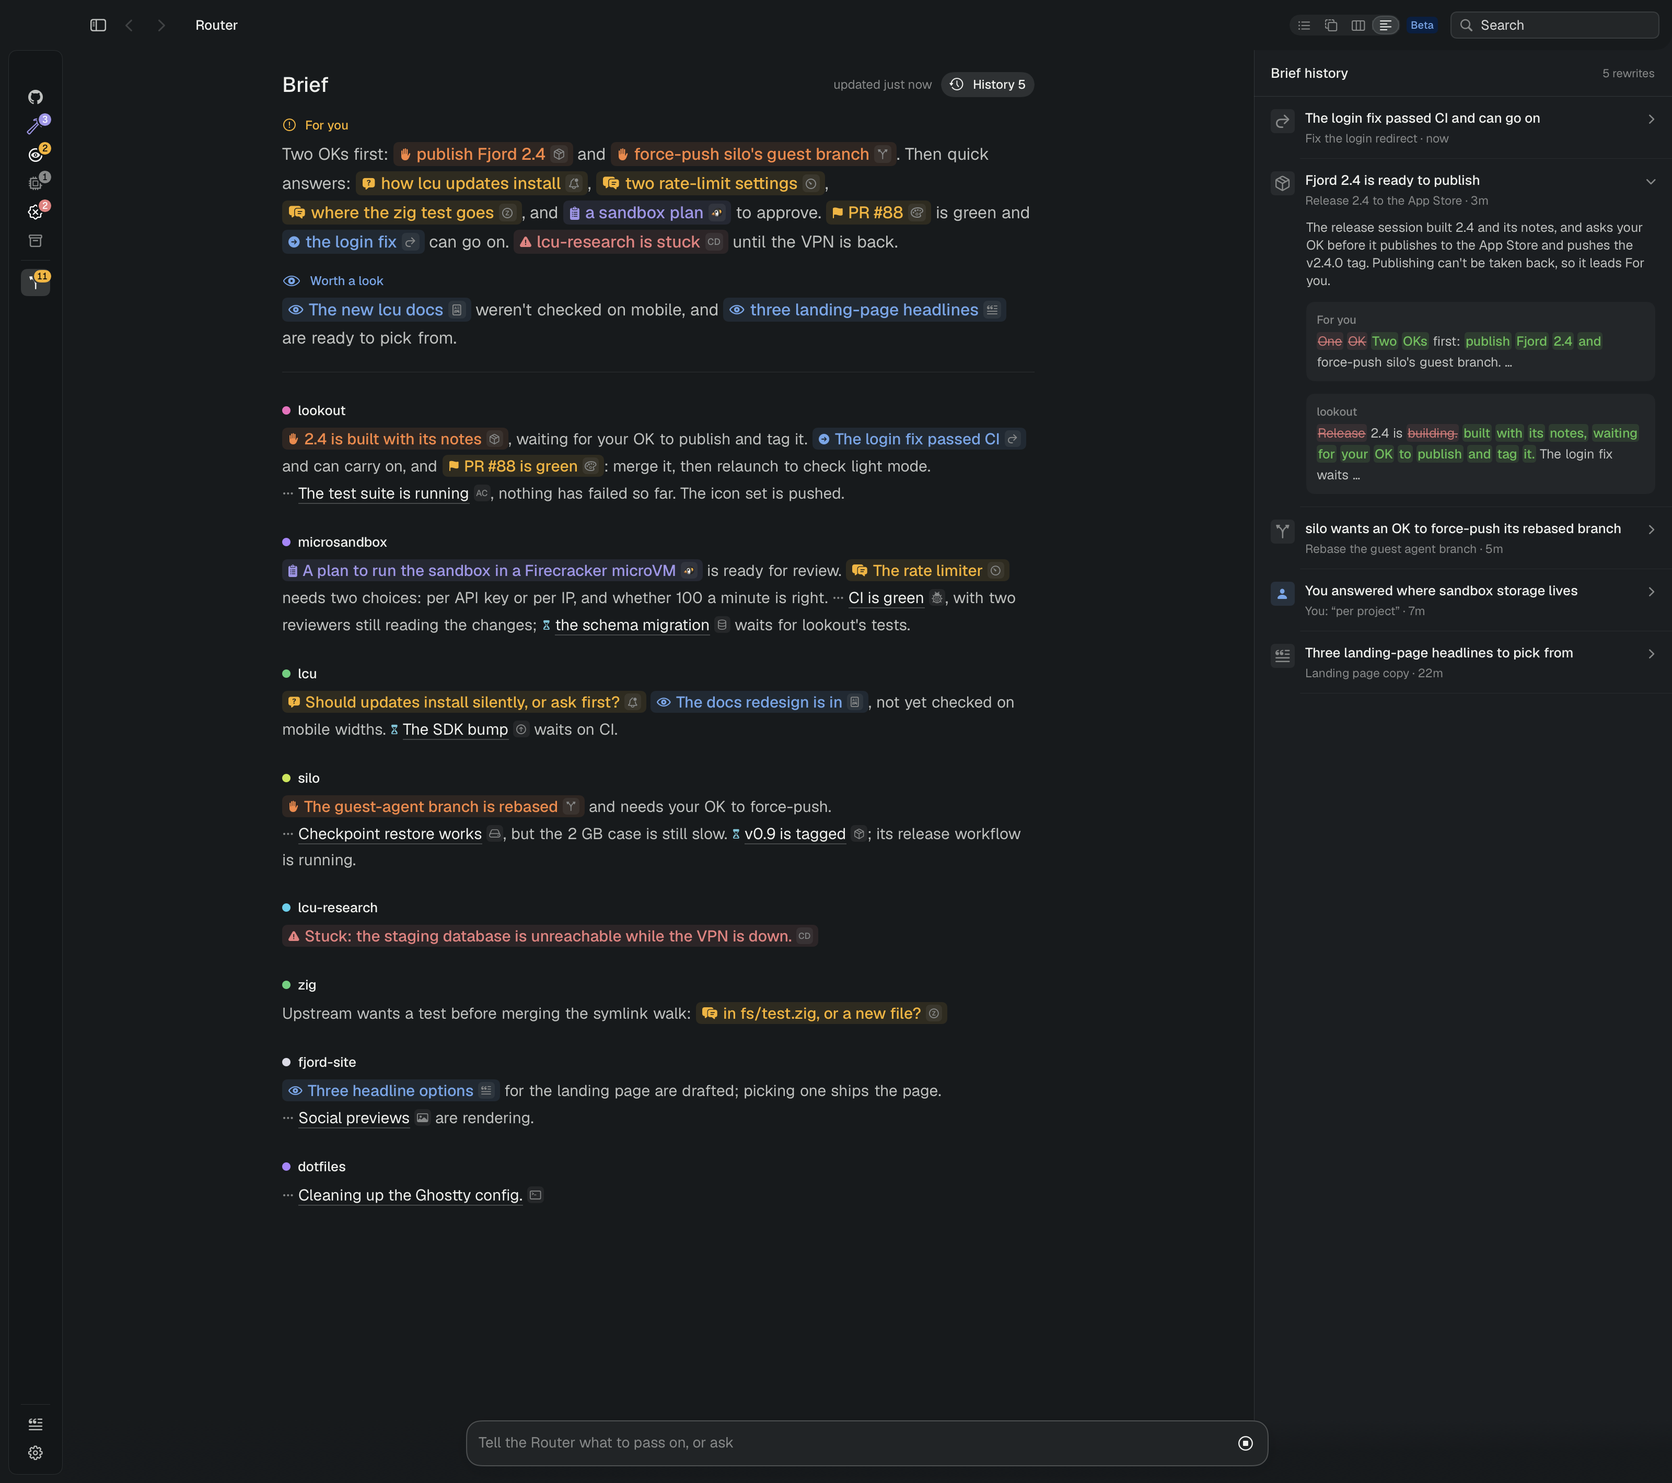
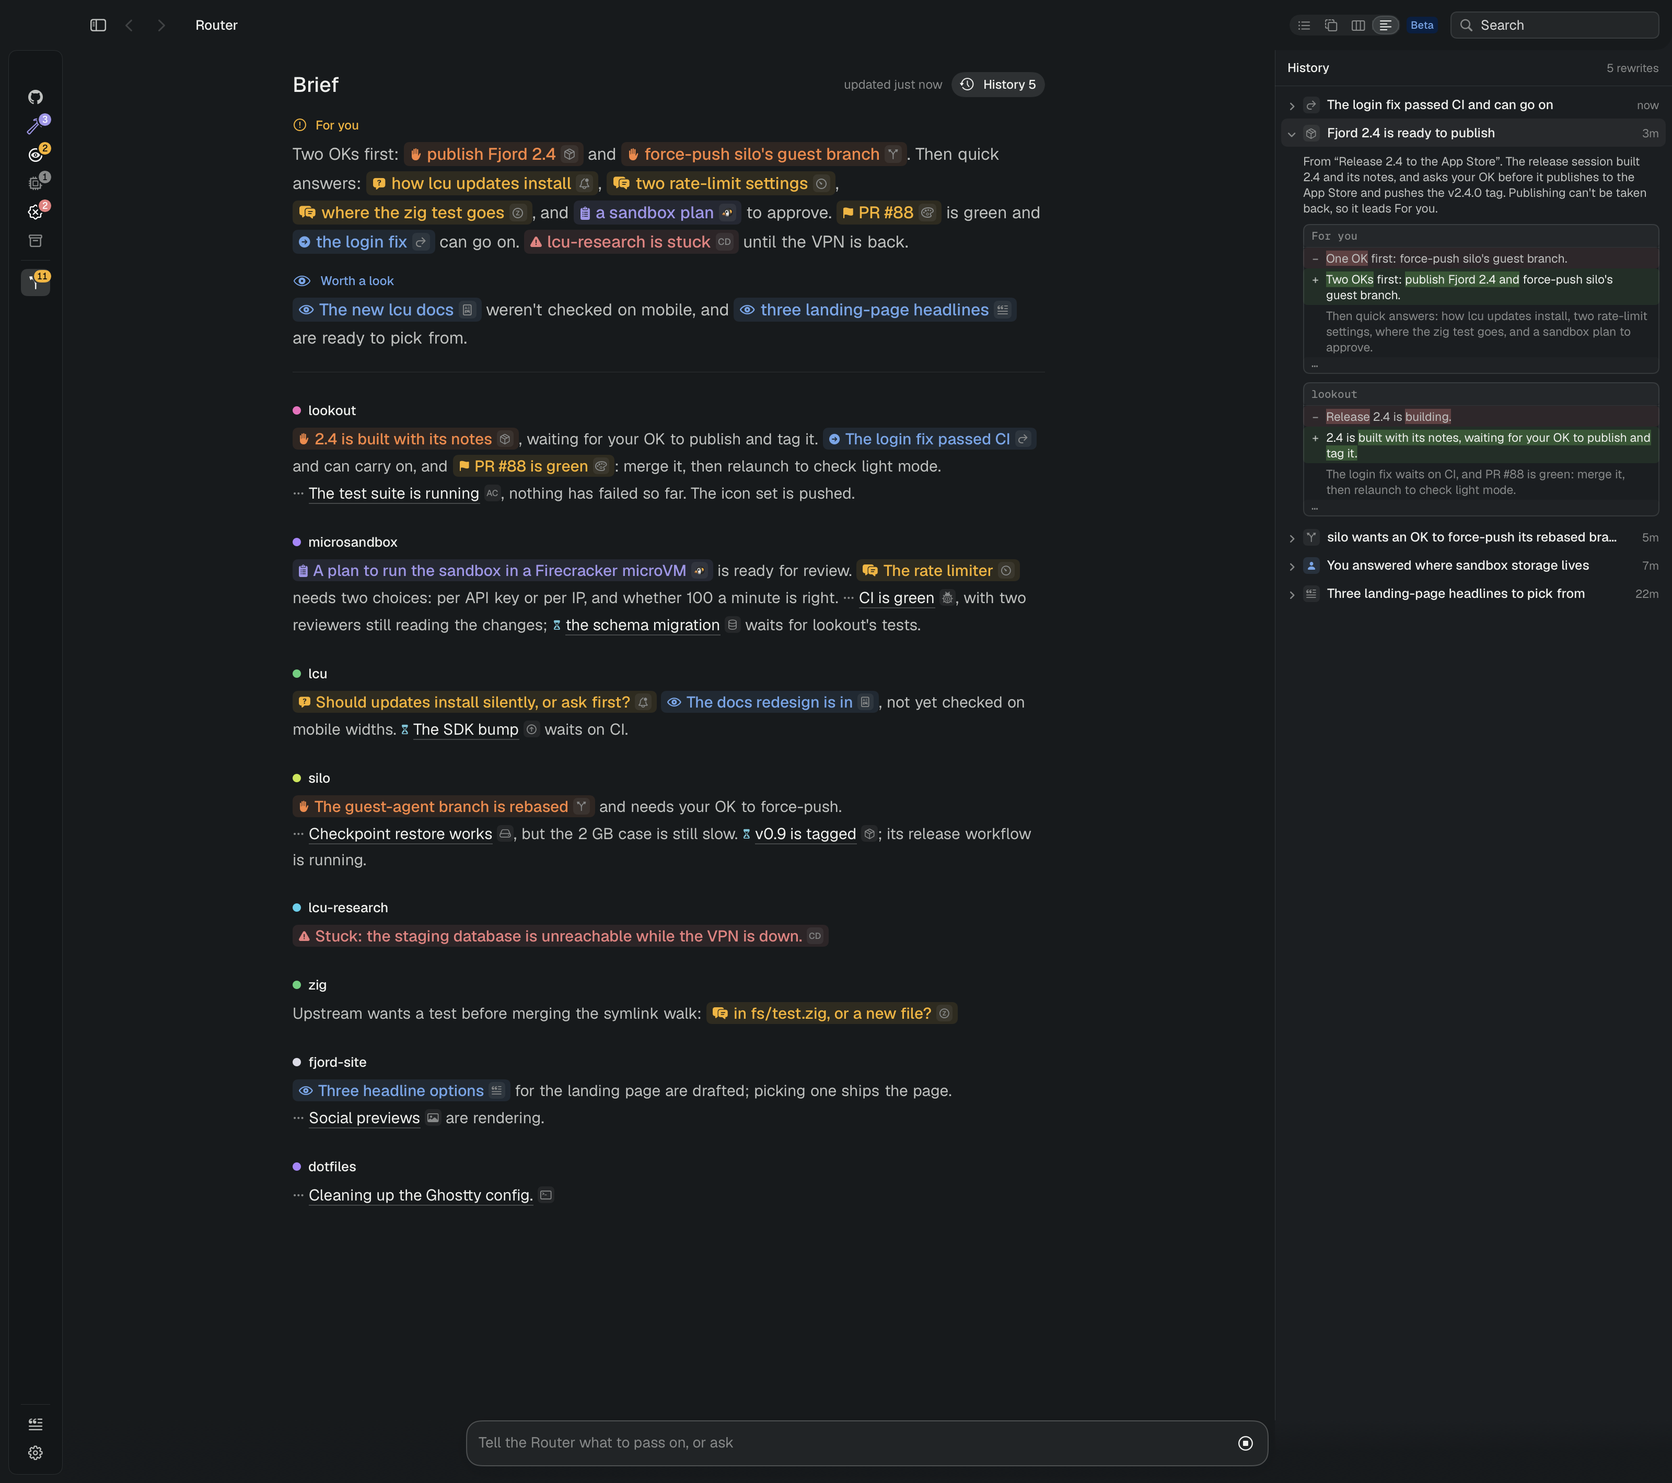
feat: Brief history as a compact list, each rewrite a unified sentence diff with the changed words marked

diff --git a/Sources/Fjord/RouterDigest.swift b/Sources/Fjord/RouterDigest.swift
@@ -53,14 +53,24 @@ struct RouterDigest: Equatable {
     }
 }
 
-/// A word-by-word diff of two paragraphs' text, tags read out: the words kept, taken out and put in, in reading order.
+/// A unified diff of two paragraphs, tags read out, as a code review shows one: the text cut into sentences (a paragraph's
+/// lines), sentences taken out and put in as − and + lines, the words that changed inside a sentence rewritten marked on
+/// it, and the sentences kept shown only next to a change, the rest folded to ⋯.
 enum DigestDiff {
-    enum Word: Equatable {
-        case same(String), removed(String), added(String)
+    enum Line: Equatable {
+        /// A sentence kept, shown as context.
+        case same(String)
+        /// Kept sentences folded away.
+        case fold
+        /// A sentence taken out, the ranges of its words that went (none: all of it).
+        case removed(String, changed: [Range<String.Index>])
+        /// A sentence put in, the ranges of its words that came.
+        case added(String, changed: [Range<String.Index>])
     }
 
-    static func words(_ before: String, _ after: String) -> [Word] {
-        let a = plain(before), b = plain(after)
+    static func lines(_ before: String, _ after: String) -> [Line] {
+        let a = sentences(before), b = sentences(after)
+        var ops: [(kind: Int, text: String)] = []  // 0 same, -1 removed, 1 added
         let diff = b.difference(from: a)
         var removed = Set<Int>(), inserted = Set<Int>()
         for change in diff {
@@ -69,56 +79,122 @@ enum DigestDiff {
             case .insert(let offset, _, _): inserted.insert(offset)
             }
         }
-        // Walk both: what left a, where it stood, then what came into b.
-        var out: [Word] = []
         var i = 0, j = 0
         while i < a.count || j < b.count {
-            if i < a.count, removed.contains(i) { out.append(.removed(a[i])); i += 1; continue }
-            if j < b.count, inserted.contains(j) { out.append(.added(b[j])); j += 1; continue }
-            if i < a.count, j < b.count { out.append(.same(b[j])); i += 1; j += 1; continue }
-            if i < a.count { out.append(.removed(a[i])); i += 1 } else { out.append(.added(b[j])); j += 1 }
+            if i < a.count, removed.contains(i) { ops.append((-1, a[i])); i += 1; continue }
+            if j < b.count, inserted.contains(j) { ops.append((1, b[j])); j += 1; continue }
+            if i < a.count, j < b.count { ops.append((0, b[j])); i += 1; j += 1; continue }
+            if i < a.count { ops.append((-1, a[i])); i += 1 } else { ops.append((1, b[j])); j += 1 }
         }
-        return trimmed(out)
+        // A run of − lines then + lines is a rewrite: pair them, line by line, to mark the words that changed.
+        var out: [Line] = []
+        var k = 0
+        while k < ops.count {
+            if ops[k].kind == 0 { out.append(.same(ops[k].text)); k += 1; continue }
+            var minus: [String] = [], plus: [String] = []
+            while k < ops.count, ops[k].kind == -1 { minus.append(ops[k].text); k += 1 }
+            while k < ops.count, ops[k].kind == 1 { plus.append(ops[k].text); k += 1 }
+            var plusMarks: [[Range<String.Index>]] = plus.map { _ in [] }
+            for (n, old) in minus.enumerated() {
+                if n < plus.count {
+                    let (gone, came) = changedWords(old, plus[n])
+                    out.append(.removed(old, changed: gone))
+                    plusMarks[n] = came
+                } else {
+                    out.append(.removed(old, changed: []))
+                }
+            }
+            for (n, new) in plus.enumerated() { out.append(.added(new, changed: plusMarks[n])) }
+        }
+        return folded(out)
     }
 
-    /// The words kept, cut to a few on each side of a change, as a diff's context: a long run between two changes keeps
-    /// its ends with "…" between, one before the first change or after the last keeps only the end next to it.
-    static func trimmed(_ words: [Word], context: Int = 4) -> [Word] {
-        var out: [Word] = []
-        var run: [Word] = []
-        func flush(atEnd: Bool) {
-            let first = out.isEmpty
-            if run.count <= context * 2 + 1 || (first && atEnd) {
-                out += run
-            } else if first {
-                out += [.same("…")] + run.suffix(context)
-            } else if atEnd {
-                out += run.prefix(context) + [.same("…")]
-            } else {
-                out += run.prefix(context) + [.same("…")] + run.suffix(context)
+    /// Kept sentences more than one away from a change folded to ⋯.
+    static func folded(_ lines: [Line]) -> [Line] {
+        let near: (Int) -> Bool = { index in
+            [index - 1, index + 1].contains { n in
+                guard lines.indices.contains(n) else { return false }
+                if case .same = lines[n] { return false }
+                return true
             }
-            run = []
         }
-        for word in words {
-            if case .same = word { run.append(word); continue }
-            if !run.isEmpty { flush(atEnd: false) }
-            out.append(word)
+        var out: [Line] = []
+        for (index, line) in lines.enumerated() {
+            if case .same = line, !near(index) {
+                if out.last != .fold { out.append(.fold) }
+            } else {
+                out.append(line)
+            }
         }
-        if !run.isEmpty { flush(atEnd: true) }
         return out
     }
 
-    /// The paragraph's words, its tags dropped (their text kept).
-    static func plain(_ markup: String) -> [String] {
-        DigestMarkup.parse(markup).map { piece -> String in
+    /// The words of `old` that went and of `new` that came, as ranges in each.
+    static func changedWords(_ old: String, _ new: String) -> ([Range<String.Index>], [Range<String.Index>]) {
+        let a = wordRanges(old), b = wordRanges(new)
+        let diff = b.map { new[$0] }.difference(from: a.map { old[$0] })
+        var gone: [Int] = [], came: [Int] = []
+        for change in diff {
+            switch change {
+            case .remove(let offset, _, _): gone.append(offset)
+            case .insert(let offset, _, _): came.append(offset)
+            }
+        }
+        return (runs(gone.sorted(), a), runs(came.sorted(), b))
+    }
+
+    /// Words next to each other marked as one run, the space between them with them.
+    private static func runs(_ offsets: [Int], _ words: [Range<String.Index>]) -> [Range<String.Index>] {
+        var out: [Range<String.Index>] = []
+        var start: Int?, last = -2
+        for offset in offsets {
+            if offset != last + 1, let s = start { out.append(words[s].lowerBound..<words[last].upperBound); start = nil }
+            if start == nil { start = offset }
+            last = offset
+        }
+        if let s = start { out.append(words[s].lowerBound..<words[last].upperBound) }
+        return out
+    }
+
+    private static func wordRanges(_ text: String) -> [Range<String.Index>] {
+        var out: [Range<String.Index>] = []
+        var start: String.Index?
+        for index in text.indices {
+            if text[index].isWhitespace {
+                if let s = start { out.append(s..<index); start = nil }
+            } else if start == nil {
+                start = index
+            }
+        }
+        if let s = start { out.append(s..<text.endIndex) }
+        return out
+    }
+
+    /// The paragraph's sentences, its tags dropped (their text kept): cut after . ? ! or ; and the space after it.
+    static func sentences(_ markup: String) -> [String] {
+        let text = DigestMarkup.parse(markup).map { piece -> String in
             switch piece {
             case .text(let text): text
             case .span(_, _, let text): text
             }
         }
         .joined()
-        .split(whereSeparator: \.isWhitespace)
-        .map(String.init)
+        var out: [String] = []
+        var current = ""
+        var previous: Character?
+        for char in text {
+            if char.isWhitespace, let p = previous, ".?!;".contains(p) {
+                let sentence = current.trimmingCharacters(in: .whitespaces)
+                if !sentence.isEmpty { out.append(sentence) }
+                current = ""
+            } else {
+                current.append(char)
+            }
+            previous = char
+        }
+        let last = current.trimmingCharacters(in: .whitespaces)
+        if !last.isEmpty { out.append(last) }
+        return out
     }
 }
 
@@ -364,33 +440,30 @@ private struct DigestParagraph<Title: View>: View {
 
 // MARK: - History
 
-/// The brief's history: each rewrite, newest first, as a line saying what changed, set off by what (a session, with its
-/// icon, or you) and when. Opened, it says why and shows each paragraph it changed, word by word: what went struck through,
-/// what came in on green.
+/// The brief's history: each rewrite, newest first, in a line: who set it off (a session's icon, or you), what changed, and
+/// when. Opened, why, then each paragraph it changed as a unified diff.
 private struct DigestHistory: View {
     let store: Store
     let model: RouterModel
     let digest: RouterDigest
     let folders: [CanvasFolder]
 
-    static let width: CGFloat = 400
+    static let width: CGFloat = 380
 
     var body: some View {
         VStack(alignment: .leading, spacing: 0) {
             HStack {
-                Text("Brief history").font(CDS.sans(13, .semibold)).foregroundStyle(CDS.Text.primary)
+                Text("History").font(CDS.sans(12, .semibold)).foregroundStyle(CDS.Text.primary)
                 Spacer()
                 Text("\(digest.history.count) rewrites").font(CDS.sans(11)).foregroundStyle(CDS.Text.muted)
             }
-            .padding(.horizontal, 16).frame(height: 44)
+            .padding(.horizontal, 12).frame(height: 34)
             Rectangle().fill(CDS.border).frame(height: CDS.hairline)
             Scrolling {
                 VStack(alignment: .leading, spacing: 0) {
-                    ForEach(digest.history) { revision in
-                        entry(revision)
-                        Rectangle().fill(CDS.border.opacity(0.6)).frame(height: CDS.hairline).padding(.leading, 44)
-                    }
+                    ForEach(digest.history) { revision in entry(revision) }
                 }
+                .padding(.vertical, 4)
                 .padding(.bottom, LaneMetrics.bottom)
             }
         }
@@ -400,80 +473,111 @@ private struct DigestHistory: View {
 
     private func entry(_ revision: RouterDigest.Revision) -> some View {
         let open = model.digest.expanded.contains(revision.id)
-        return VStack(alignment: .leading, spacing: 10) {
+        return VStack(alignment: .leading, spacing: 6) {
             Button {
                 withAnimation(Motion.spatial.resolved(reduce: false)) {
                     if open { model.digest.expanded.remove(revision.id) } else { model.digest.expanded.insert(revision.id) }
                 }
             } label: {
-                HStack(alignment: .top, spacing: 10) {
-                    trigger(revision.trigger)
-                    VStack(alignment: .leading, spacing: 3) {
-                        Text(revision.label).font(CDS.sans(13, .medium)).foregroundStyle(CDS.Text.primary)
-                            .multilineTextAlignment(.leading).fixedSize(horizontal: false, vertical: true)
-                        Text(source(revision.trigger) + " · " + shortAgo(revision.at))
-                            .font(CDS.sans(11.5)).foregroundStyle(CDS.Text.muted).lineLimit(1)
-                    }
+                HStack(alignment: .firstTextBaseline, spacing: 7) {
+                    Image(systemName: "chevron.right").font(.system(size: 8, weight: .bold))
+                        .foregroundStyle(CDS.Text.muted).rotationEffect(.degrees(open ? 90 : 0)).frame(width: 8)
+                    trigger(revision.trigger).alignmentGuide(.firstTextBaseline) { $0[VerticalAlignment.center] + 4 }
+                    Text(revision.label).font(CDS.sans(12.5, .medium)).foregroundStyle(CDS.Text.primary)
+                        .lineLimit(open ? nil : 1)
                     Spacer(minLength: 4)
-                    Image(systemName: "chevron.right").font(.system(size: 10, weight: .semibold))
-                        .foregroundStyle(CDS.Text.muted).rotationEffect(.degrees(open ? 90 : 0)).padding(.top, 4)
+                    Text(shortAgo(revision.at)).font(CDS.sans(11)).foregroundStyle(CDS.Text.muted).monospacedDigit()
                 }
+                .padding(.horizontal, 6).padding(.vertical, 5)
+                .background(RoundedRectangle(cornerRadius: 6, style: .continuous).fill(open ? CDS.alpha(0.05) : .clear))
                 .contentShape(Rectangle())
             }
             .buttonStyle(.plain)
             if open {
-                VStack(alignment: .leading, spacing: 12) {
-                    Text(revision.why).font(CDS.sans(12.5)).foregroundStyle(CDS.Text.secondary)
+                VStack(alignment: .leading, spacing: 8) {
+                    Text(source(revision.trigger) + ". " + revision.why)
+                        .font(CDS.sans(11.5)).foregroundStyle(CDS.Text.secondary)
                         .fixedSize(horizontal: false, vertical: true)
                     ForEach(Array(revision.changes.enumerated()), id: \.offset) { _, change in
-                        VStack(alignment: .leading, spacing: 5) {
-                            Text(title(change.key)).font(CDS.sans(11, .semibold)).foregroundStyle(CDS.Text.muted)
-                            DigestFlow(spacing: 3.5, lineSpacing: 3) {
-                                ForEach(Array(DigestDiff.words(change.before, change.after).enumerated()), id: \.offset) { _, word in
-                                    diffWord(word)
-                                }
-                            }
-                        }
-                        .padding(10)
-                        .background(RoundedRectangle(cornerRadius: 8, style: .continuous).fill(CDS.alpha(0.035)))
+                        diff(change)
                     }
                 }
-                .padding(.leading, 34)
+                .padding(.leading, 21).padding(.trailing, 6).padding(.bottom, 6)
                 .transition(.opacity)
             }
         }
-        .padding(.horizontal, 16).padding(.vertical, 12)
+        .padding(.horizontal, 6)
     }
 
-    @ViewBuilder private func diffWord(_ word: DigestDiff.Word) -> some View {
-        switch word {
-        case .same(let w):
-            Text(w).font(CDS.sans(12.5)).foregroundStyle(CDS.Text.secondary)
-        case .removed(let w):
-            Text(w).font(CDS.sans(12.5)).strikethrough(color: Theme.red.opacity(0.8)).foregroundStyle(Theme.red.opacity(0.85))
-                .padding(.horizontal, 1).background(RoundedRectangle(cornerRadius: 3).fill(Theme.red.opacity(0.10)))
-        case .added(let w):
-            Text(w).font(CDS.sans(12.5, .medium)).foregroundStyle(Theme.green)
-                .padding(.horizontal, 1).background(RoundedRectangle(cornerRadius: 3).fill(Theme.green.opacity(0.14)))
+    /// A paragraph's change as a code review shows a file's: its name on a bar, then its lines.
+    private func diff(_ change: RouterDigest.Revision.Change) -> some View {
+        let shape = RoundedRectangle(cornerRadius: 6, style: .continuous)
+        return VStack(alignment: .leading, spacing: 0) {
+            Text(title(change.key)).font(CDS.mono(10.5, .medium)).foregroundStyle(CDS.Text.muted)
+                .padding(.horizontal, 8).frame(height: 22).frame(maxWidth: .infinity, alignment: .leading)
+                .background(CDS.alpha(0.04))
+            Rectangle().fill(CDS.border).frame(height: CDS.hairline)
+            ForEach(Array(DigestDiff.lines(change.before, change.after).enumerated()), id: \.offset) { _, line in
+                row(line)
+            }
         }
+        .clipShape(shape)
+        .overlay(shape.strokeBorder(CDS.border, lineWidth: 1))
+    }
+
+    @ViewBuilder private func row(_ line: DigestDiff.Line) -> some View {
+        switch line {
+        case .fold:
+            Text("⋯").font(CDS.mono(10.5)).foregroundStyle(CDS.Text.muted)
+                .padding(.horizontal, 8).frame(height: 16).frame(maxWidth: .infinity, alignment: .leading)
+                .background(CDS.alpha(0.02))
+        case .same(let text):
+            diffLine("", text, AttributedString(text), ink: CDS.Text.muted, ground: .clear)
+        case .removed(let text, let changed):
+            diffLine("−", text, marked(text, changed, Theme.red), ink: CDS.Text.secondary, ground: Theme.red.opacity(0.09))
+        case .added(let text, let changed):
+            diffLine("+", text, marked(text, changed, Theme.green), ink: CDS.Text.primary, ground: Theme.green.opacity(0.10))
+        }
+    }
+
+    private func diffLine(_ sign: String, _ text: String, _ styled: AttributedString, ink: Color, ground: Color) -> some View {
+        HStack(alignment: .firstTextBaseline, spacing: 6) {
+            Text(sign).font(CDS.mono(11, .medium)).foregroundStyle(ink.opacity(0.7)).frame(width: 8)
+            Text(styled).font(CDS.sans(11.5)).foregroundStyle(ink)
+                .fixedSize(horizontal: false, vertical: true)
+        }
+        .padding(.horizontal, 8).padding(.vertical, 2.5)
+        .frame(maxWidth: .infinity, alignment: .leading)
+        .background(ground)
+    }
+
+    /// The sentence with the words that changed in it on a stronger ground of the line's colour.
+    private func marked(_ text: String, _ ranges: [Range<String.Index>], _ tint: Color) -> AttributedString {
+        var out = AttributedString(text)
+        for range in ranges {
+            guard let lower = AttributedString.Index(range.lowerBound, within: out),
+                  let upper = AttributedString.Index(range.upperBound, within: out) else { continue }
+            out[lower..<upper].backgroundColor = tint.opacity(0.28)
+        }
+        return out
     }
 
     /// Who set it off: the session's own icon, or you.
     @ViewBuilder private func trigger(_ trigger: RouterDigest.Revision.Trigger) -> some View {
         switch trigger {
         case .session(let id):
-            SessionMark(store: store, session: id, size: 22)
+            SessionMark(store: store, session: id, size: 15)
         case .you:
-            Image(systemName: "person.fill").font(.system(size: 11, weight: .semibold)).foregroundStyle(CDS.Text.accent)
-                .frame(width: 23, height: 23)
+            Image(systemName: "person.fill").font(.system(size: 8.5, weight: .semibold)).foregroundStyle(CDS.Text.accent)
+                .frame(width: 16, height: 16)
                 .background(RoundedRectangle(cornerRadius: 4, style: .continuous).fill(CDS.Text.accent.opacity(0.14)))
         }
     }
 
     private func source(_ trigger: RouterDigest.Revision.Trigger) -> String {
         switch trigger {
-        case .session(let id): store.claudeSessions[id]?.title ?? "A session"
-        case .you(let said): "You: “\(said)”"
+        case .session(let id): "From “\(store.claudeSessions[id]?.title ?? "a session")”"
+        case .you(let said): "You said “\(said)”"
         }
     }
 
